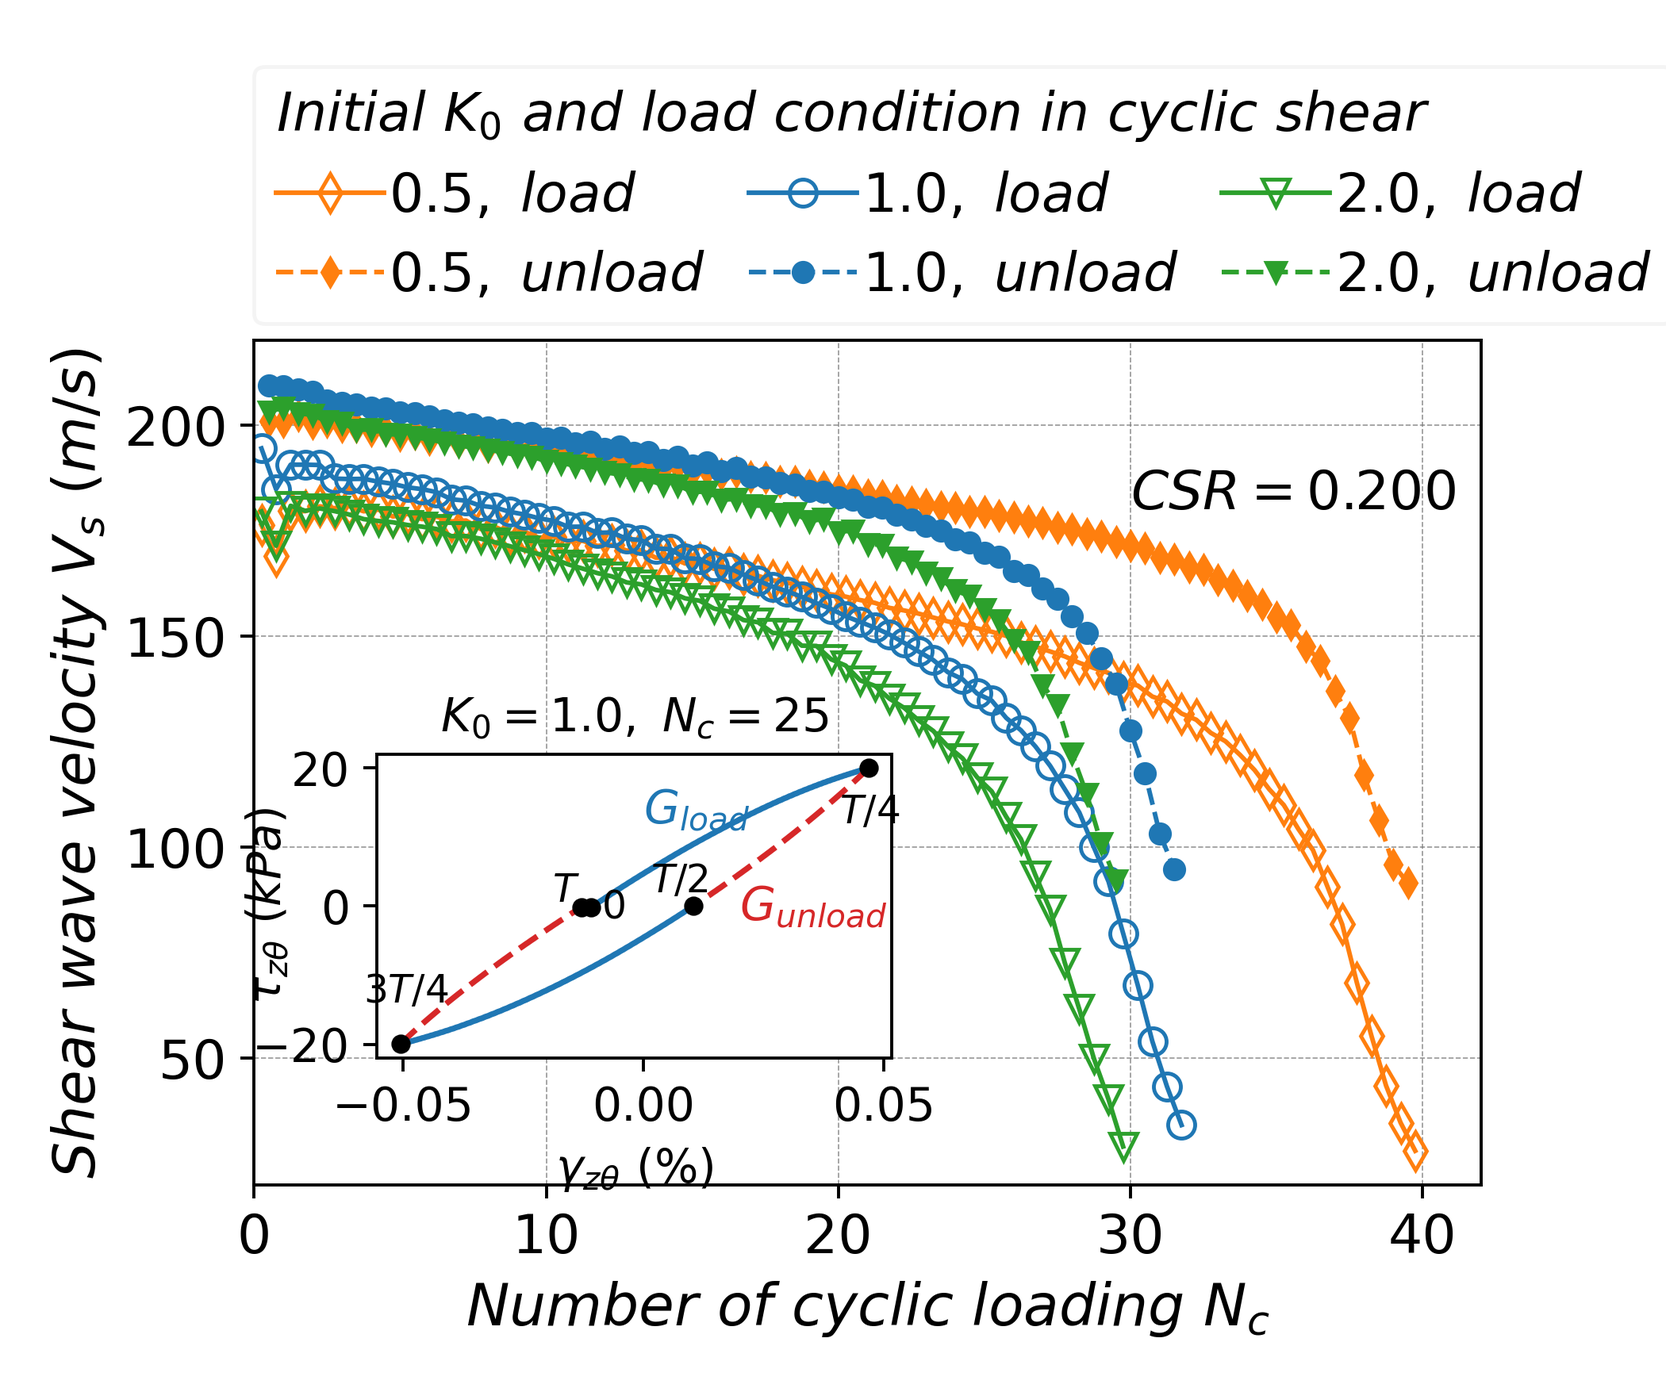
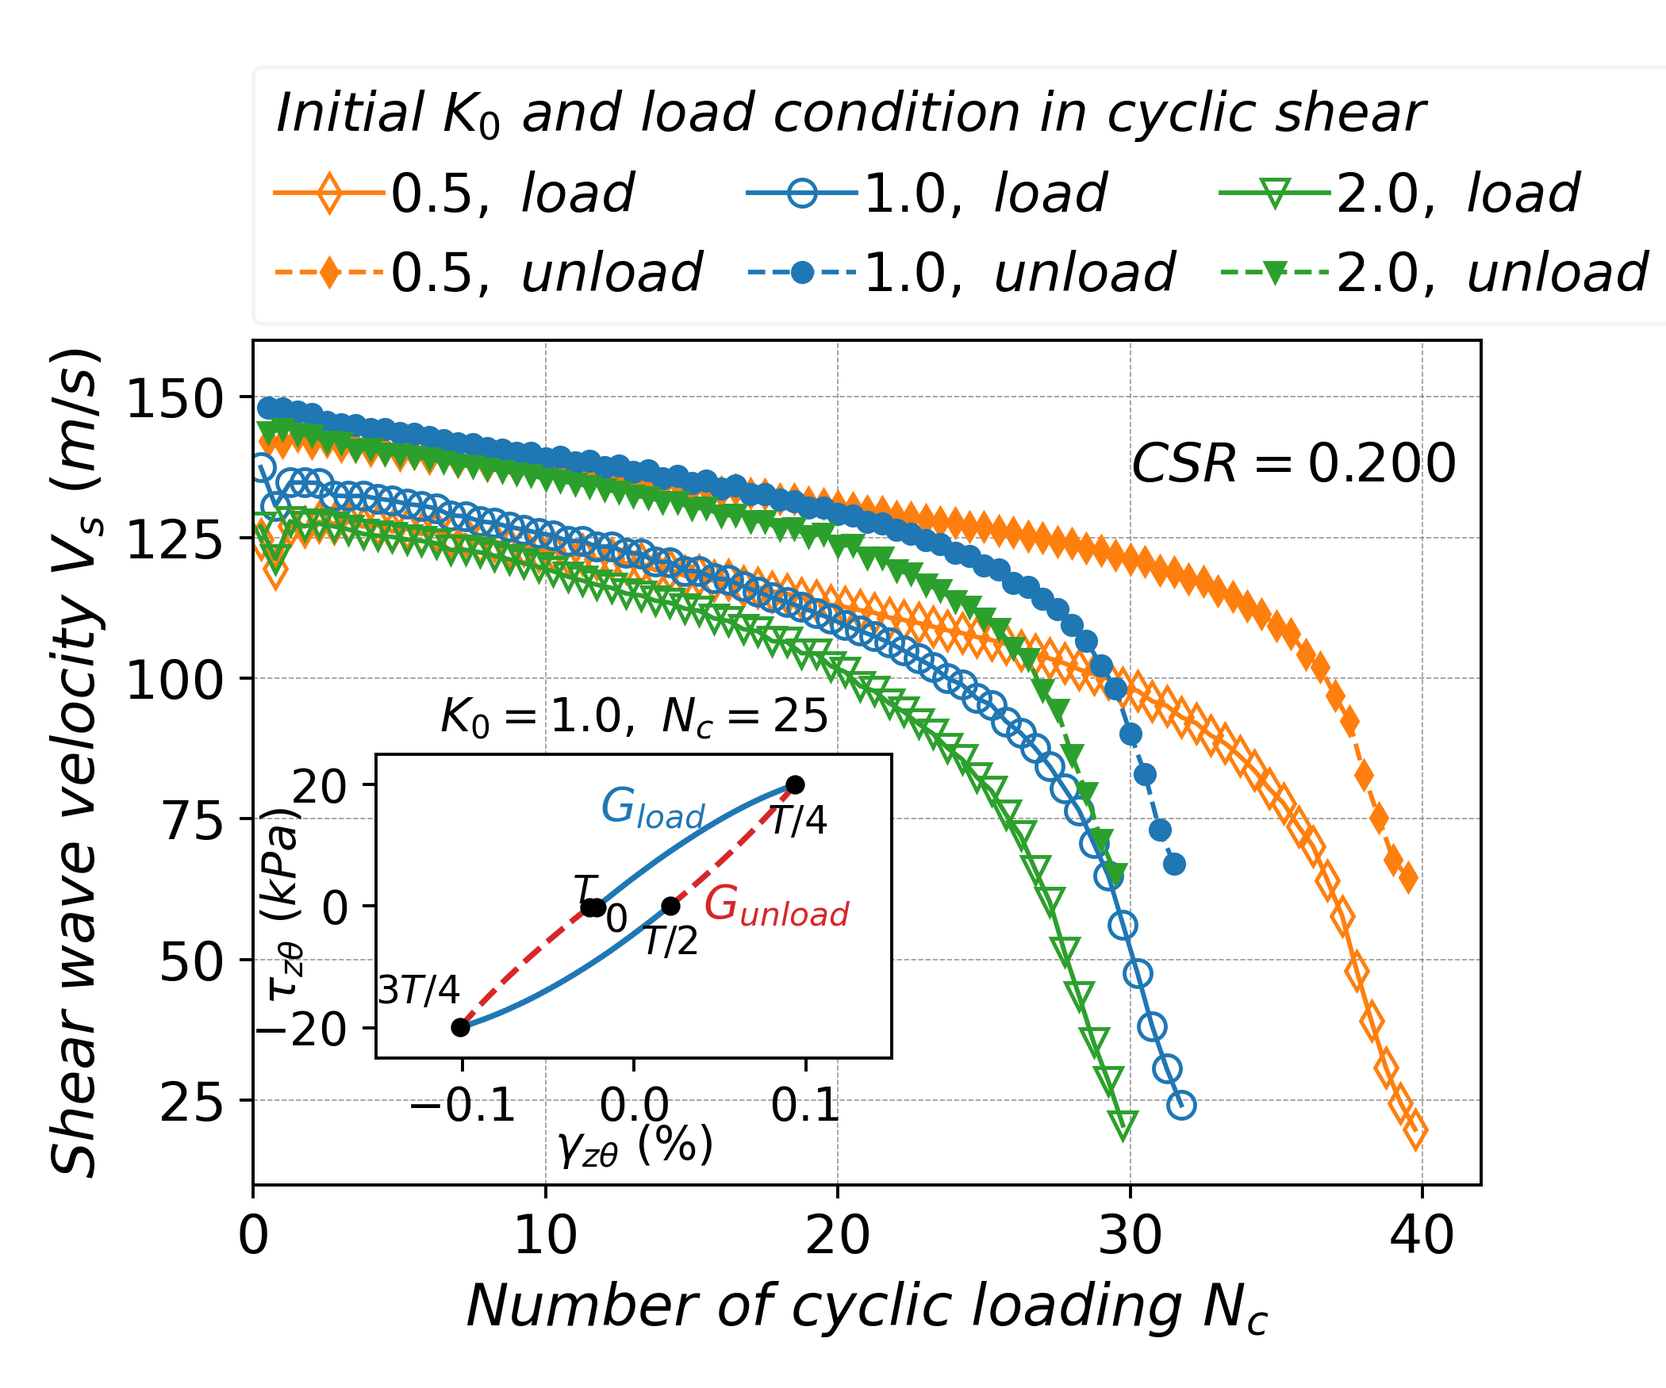
fix V_s calculation (G=τ/γ not τ/ε), update Fig.9 and Section 3.2–3.3 text
Shear modulus was computed as τ/ε (tensorial strain) instead of τ/γ (shear
strain), overstating G by 2× and V_s by √2. Corrected shear_modulus.py,
regenerated figure, and updated all numerical V_s values in paper and thesis.
Also refined Section 3.3 wording: fabric anisotropy indicator and contact
density evolution paragraphs.

diff --git a/papers/sdee-k0-anisotropy/sections/03_results_discussion.tex b/papers/sdee-k0-anisotropy/sections/03_results_discussion.tex
@@ -128,7 +128,7 @@ V_s = \sqrt{\frac{G}{\rho_{\mathrm{sat}}}}.
   \label{fig:vs_evolution}
 \end{figure}
 
-The loading $V_s$ is calculated from the secant modulus of the first and third quarter-periods of each cycle, and the unloading $V_s$ from the second and fourth quarter-periods. Figure~\ref{fig:vs_evolution} shows that unloading stiffness is consistently higher than loading stiffness for all three states, reflecting the hysteretic behavior of granular materials. The isotropic specimen (\Kzero{} = 1.0) exhibits the highest initial \Vs{} (approximately \SI{195}{m/s} loading, \SI{210}{m/s} unloading), while the \Kzero{} = 0.5 and 2.0 specimens have lower but comparable initial values (\SIrange{176}{180}{m/s}). Despite the similar initial stiffness of the \Kzero{} = 0.5 and 2.0 states, their subsequent degradation trajectories differ markedly: at 28 cycles, loading \Vs{} has degraded to \SI{144}{m/s} (\Kzero{} = 0.5), \SI{108}{m/s} (\Kzero{} = 1.0), and \SI{62}{m/s} (\Kzero{} = 2.0). Stiffness degrades slowest for \Kzero{} = 0.5 and fastest for \Kzero{} = 2.0.
+The loading $V_s$ is calculated from the secant modulus of the first and third quarter-periods of each cycle, and the unloading $V_s$ from the second and fourth quarter-periods. Figure~\ref{fig:vs_evolution} shows that unloading stiffness is consistently higher than loading stiffness for all three states, reflecting the hysteretic behavior of granular materials. The isotropic specimen (\Kzero{} = 1.0) exhibits the highest initial \Vs{} (approximately \SI{138}{m/s} loading, \SI{148}{m/s} unloading), while the \Kzero{} = 0.5 and 2.0 specimens have lower but comparable initial values (\SIrange{125}{127}{m/s} loading, \SIrange{142}{144}{m/s} unloading). Despite the similar initial stiffness of the \Kzero{} = 0.5 and 2.0 states, their subsequent degradation trajectories differ markedly: at 28 cycles, loading \Vs{} has degraded to \SI{103}{m/s} (\Kzero{} = 0.5), \SI{80}{m/s} (\Kzero{} = 1.0), and \SI{51}{m/s} (\Kzero{} = 2.0). Stiffness degrades slowest for \Kzero{} = 0.5 and fastest for \Kzero{} = 2.0.
 
 These different degradation rates provide a unified macroscopic explanation for the liquefaction resistance ordering. The \Kzero{} = 0.5 specimen maintains higher stiffness for longer, develops smaller strain amplitudes per cycle, and therefore accumulates shear work more gradually; the \Kzero{} = 2.0 specimen exhibits the opposite trend. This interpretation is consistent with the cycle-based energy accumulation shown in Fig.~\ref{fig:energy_work}(c) and explains why an energy-only comparison based on $\ru$--$W_s$ does not fully resolve the difference between the isotropic and extension states. However, stiffness degradation itself is a consequence of evolving particle contacts; why different \Kzero{} states degrade at different rates requires a microscopic explanation.
 
@@ -159,7 +159,7 @@ However, the inset in Fig.~\ref{fig:zm_evolution} also indicates that \Zm{} alon
   \label{fig:alpha_evolution}
 \end{figure}
 
-Figure~\ref{fig:alpha_evolution} shows that the \Kzero{} = 0.5 specimen starts with positive $\alpha_0 \approx +0.07$, the \Kzero{} = 1.0 specimen with near-zero $\alpha_0 \approx +0.02$, and the \Kzero{} = 2.0 specimen with negative $\alpha_0 \approx -0.05$, confirming that anisotropic consolidation induces distinct directional fabrics. During most of cyclic loading, $\alpha$ remains relatively stable, whereas large fluctuations emerge near liquefaction and the three curves converge toward a narrow band (approximately 0 to 0.05), indicating that the initially distinct directional fabrics are progressively erased as the contact network degrades. Notably, the ordering of initial values ($\alpha_0$: \Kzero{} = 0.5 $>$ 1.0 $>$ 2.0) largely mirrors the liquefaction resistance ranking, suggesting that directional fabric anisotropy at the onset of cyclic loading is an important factor governing the subsequent resistance. This relationship is examined quantitatively with an expanded dataset below.
+Figure~\ref{fig:alpha_evolution} shows that the \Kzero{} = 0.5 specimen starts with positive $\alpha_0 \approx +0.07$, the \Kzero{} = 1.0 specimen with near-zero $\alpha_0 \approx +0.02$, and the \Kzero{} = 2.0 specimen with negative $\alpha_0 \approx -0.05$, confirming that anisotropic consolidation induces distinct directional fabrics. During most of cyclic loading, $\alpha$ remains relatively stable, whereas large fluctuations emerge near liquefaction and the three curves converge toward a narrow band (approximately 0 to 0.05), indicating that the initially distinct directional fabrics are progressively erased as the contact network degrades. Notably, the ordering of initial values ($\alpha_0$: \Kzero{} = 0.5 $>$ 1.0 $>$ 2.0) largely mirrors the liquefaction resistance ranking, suggesting that initial fabric anisotropy is a key factor controlling liquefaction resistance. This relationship is examined quantitatively with an expanded dataset below.
 
 \paragraph{Contact density evolution and morphological interpretation.}
 The scalar indicator $\alpha$ captures directional bias but not the full morphology of the contact orientation distribution. To visualize the evolution of contact orientation and contact quantity simultaneously, contact density distributions are examined for the \Kzero{} = 0.5 and 2.0 specimens over the liquefaction process.
@@ -185,7 +185,7 @@ The scalar indicator $\alpha$ captures directional bias but not the full morphol
   \label{fig:contact_density_sequence}
 \end{figure*}
 
-Figure~\ref{fig:contact_density_sequence} shows that the \Kzero{} = 0.5 specimen initially exhibits an axially extended contact-density distribution (higher density near the poles), consistent with its positive $\alpha_0$, whereas the \Kzero{} = 2.0 specimen shows a dimpled, equator-concentrated distribution, consistent with its negative $\alpha_0$. During the intermediate stage, the overall contact density decreases while the initial morphology is largely preserved. As liquefaction is approached and in the post-liquefaction state, the contact density becomes more diffuse and the direction of maximum concentration rotates with the principal stress axes; eventually, the two initially distinct distributions enter a common oscillatory regime, with the direction of maximum contact density alternating its inclination upon each loading reversal. This shared post-liquefaction regime is consistent with the dynamic convergence of $\alpha$, \Vs{}, and \Zm{} near liquefaction.
+Figure~\ref{fig:contact_density_sequence} shows that the \Kzero{} = 0.5 specimen initially exhibits an axially extended contact-density distribution (higher density near the poles), consistent with its positive $\alpha_0$, whereas the \Kzero{} = 2.0 specimen shows a dimpled, equator-concentrated distribution, consistent with its negative $\alpha_0$. During the intermediate stage, contacts are progressively lost yet the distribution retains its initial morphology: the fabric shrinks but does not reshape. As liquefaction is approached, the initial morphology is destroyed and the direction of maximum concentration begins to tilt with the applied shear; in the post-liquefaction state, the two initially distinct distributions collapse into a common oscillatory regime, with the direction of maximum contact density alternating its inclination upon each loading reversal. This shared post-liquefaction regime is consistent with the dynamic convergence of $\alpha$, \Vs{}, and \Zm{} near liquefaction.
 
 \paragraph{Interparticle force chains and particle displacement.}
 
@@ -243,11 +243,11 @@ The preceding analyses demonstrate that \Zm{} and $\alpha$ capture different asp
   \label{fig:fabric_liq_pair}
 \end{figure*}
 
-Figure~\ref{fig:fabric_liq_pair}(a) shows that denser specimens have systematically larger $Z_{m0}$ and higher $N_L$, confirming that coordination number reflects the influence of packing compactness. However, within each density group, $Z_{m0}$ does not correlate monotonically with liquefaction resistance. By contrast, Fig.~\ref{fig:fabric_liq_pair}(b) shows a generally positive correlation between $\alpha_0$ and $N_L$ across both density levels: compression-state anisotropy (larger $\alpha_0$) is associated with higher liquefaction resistance, while extension-state anisotropy (smaller $\alpha_0$) is associated with lower liquefaction resistance. A minor reversal is observed in the lower-density group at extreme extension states (\Kzero{} = 1.5 and 2.0), where the $N_L$ difference is only one cycle; this is likely attributable to the discrete nature of cycle counting, since the strain-based liquefaction criterion can only be evaluated at integer cycle boundaries, introducing an inherent $\pm 1$ cycle uncertainty that is significant when $N_L$ itself is small.
+Figure~\ref{fig:fabric_liq_pair}(a) shows that denser specimens have systematically larger $Z_{m0}$ and higher $N_L$. However, because $Z_{m0}$ and relative density are strongly coupled under conventional specimen preparation, this cross-density correlation does not establish an independent role for $Z_{m0}$; it may simply reflect the well-known macroscopic density effect. Within each density group, $Z_{m0}$ does not correlate monotonically with $N_L$, further suggesting that $Z_{m0}$ primarily serves as a proxy for packing compactness in the present dataset. By contrast, $\alpha_0$ varies independently of density through changes in \Kzero{}, making it a genuinely independent microscopic variable in this study. Fig.~\ref{fig:fabric_liq_pair}(b) shows a generally positive correlation between $\alpha_0$ and $N_L$ across both density levels: compression-state anisotropy (larger $\alpha_0$) is associated with higher liquefaction resistance, while extension-state anisotropy (smaller $\alpha_0$) is associated with lower resistance. A minor reversal is observed in the lower-density group at extreme extension states (\Kzero{} = 1.5 and 2.0), where the $N_L$ difference is only one cycle; this is likely attributable to the limited resolution of cycle-based counting, which introduces an inherent uncertainty of approximately one cycle---significant when $N_L$ itself is small.
 
-The three-dimensional view in Fig.~\ref{fig:fabric_liq_pair}(c) clarifies the complementary roles of the two microscopic parameters. The two relative-density groups are primarily separated along the $Z_{m0}$ axis, whereas the variation in $N_L$ within each group is more strongly associated with $\alpha_0$. This indicates that $Z_{m0}$ mainly captures the packing-state effect, while $\alpha_0$ captures the directional fabric effect induced by anisotropic consolidation.
+The three-dimensional view in Fig.~\ref{fig:fabric_liq_pair}(c) reveals the asymmetric roles of the two microscopic parameters. The two relative-density groups are primarily separated along the $Z_{m0}$ axis, whereas the variation in $N_L$ within each group is governed by $\alpha_0$. In other words, $Z_{m0}$ largely mirrors the macroscopic density effect, whereas $\alpha_0$ provides directional fabric information that is inaccessible from macroscopic state variables alone.
 
-The physical interpretation is that, in compression states (\Kzero{} < 1.0), a larger fraction of contact normals is oriented perpendicular to the horizontal cyclic shear direction, which tends to stabilize contacts against shear-induced sliding and slows fabric degradation. In extension states (\Kzero{} > 1.0), the contact normals are more aligned with the shear direction, promoting sliding and force-chain collapse, thereby accelerating pore-pressure accumulation and reducing liquefaction resistance. At the same time, the cross-density comparison in Fig.~\ref{fig:fabric_liq_pair}(c) indicates that \Zm{} and $\alpha$ alone do not fully determine liquefaction resistance; macroscopic density-related mechanisms (e.g., particle interlocking and force-chain stability) remain important.
+The physical interpretation is that, in compression states (\Kzero{} < 1.0), a larger fraction of contact normals is oriented perpendicular to the horizontal cyclic shear direction, which tends to stabilize contacts against shear-induced sliding and slows fabric degradation. In extension states (\Kzero{} > 1.0), the contact normals are more aligned with the shear direction, promoting sliding and force-chain collapse, thereby accelerating pore-pressure accumulation and reducing liquefaction resistance. Isolating the independent contribution of \Zm{} would require specimens with identical density but different coordination numbers---achievable, for example, through varied preparation methods---which remains a direction for future investigation.
 
 \subsection{Implications and limitations}
 \label{subsec:limitations}

diff --git a/torsionSim/cyclic_shear/shear_modulus.py b/torsionSim/cyclic_shear/shear_modulus.py
@@ -73,7 +73,8 @@ def plot_shear_modulus(k0, color, marker):
 		d_stress = stresses_shear[ind_end] - stresses_shear[ind_start]
 
 		if abs(d_strain) > 1e-11:
-			G = abs(d_stress / d_strain) * 1000.  # Pa
+			# d_strain is tensorial strain epsilon; G = tau / gamma = tau / (2*epsilon)
+			G = abs(d_stress / d_strain) * 1000. / 2.0  # Pa
 			Vs = np.sqrt(G / density_sat)  # m/s
 
 			if i % 2 == 0:  # loading
@@ -108,7 +109,8 @@ for k0, marker, color in zip(k0s, markers, colors):
 
 # --- Inset: hysteresis loop schematic using K0=1.0, cycle 25 ---
 df_inset = pd.read_csv(BASE_DIR / "Dr90/k1.00/csr_0.200/torsion_shear.csv", header=0)
-strains_in = df_inset["strain_shear"].to_numpy() * 100  # percent
+# strain_shear is tensorial epsilon; convert to gamma = 2*epsilon for plotting
+strains_in = df_inset["strain_shear"].to_numpy() * 100 * 2.0  # gamma in percent
 stresses_in = df_inset["stress_shear"].to_numpy() / 1000.  # kPa
 time_in = df_inset["time_duration"].to_numpy()
 
@@ -132,7 +134,7 @@ for q in range(4):
 
 # mark quarter points
 labels = [r'$0$', r'$T/4$', r'$T/2$', r'$3T/4$', r'$T$']
-offsets = [(0.002, -1.6), (-0.006, -8), (0.003, 2.0), (0.01, 6.0), (-0.006, 0.8)]
+offsets = [(0.004, -4), (-0.016, -8), (0.016, -8.0), (0.0, 4.0), (-0.01, 0.6)]
 ha_list = ['left', 'left', 'right', 'right', 'left']
 for q in range(5):
 	ax2.plot(strains_in[iq[q]], stresses_in[iq[q]], 'ko', markersize=4, zorder=5)
@@ -141,13 +143,15 @@ for q in range(5):
 		fontsize=FS_INSET-2, ha=ha_list[q], fontweight='bold')
 
 # G labels
-ax2.annotate(r'$G_{load}$', xy=(-0.0, 12), fontsize=FS_INSET, color='tab:blue',
+ax2.annotate(r'$G_{load}$', xy=(-0.02, 14), fontsize=FS_INSET, color='tab:blue',
 	fontstyle='italic')
-ax2.annotate(r'$G_{unload}$', xy=(0.02, -2), fontsize=FS_INSET, color='tab:red',
+ax2.annotate(r'$G_{unload}$', xy=(0.04, -2), fontsize=FS_INSET, color='tab:red',
 	fontstyle='italic')
 
-ax2.set_xlabel(r'$\gamma_{z\theta}\ (\%)$', fontsize=FS_INSET)
-ax2.set_ylabel(r'$\tau_{z\theta}\ (kPa)$', fontsize=FS_INSET, labelpad=-10)
+ax2.set_xlabel(r'$\gamma_{z\theta}\ (\%)$', fontsize=FS_INSET, labelpad=-2)
+ax2.set_ylabel(r'$\tau_{z\theta}\ (kPa)$', fontsize=FS_INSET, labelpad=-14)
+ax2.set_xlim(-0.15, 0.15)
+ax2.set_ylim(-25, 25)
 ax2.tick_params(axis='both', which='major', labelsize=FS_INSET)
 ax2.set_title(r'$K_0=1.0,\ N_c=25$', fontsize=FS_INSET)
 
@@ -164,8 +168,8 @@ ax1.grid(axis='both', which='major', color='grey', linestyle='--',
 	lw=0.35, alpha=0.8)
 ax1.tick_params(axis='both', which='major', labelsize=FS_TICK)
 ax1.set_xlim(0, 42)
-ax1.set_ylim(20, 220)
-plt.annotate(r"$CSR=0.200$", xy=(30, 180), fontsize=FS_ANN)
+ax1.set_ylim(10, 160)
+plt.annotate(r"$CSR=0.200$", xy=(30, 135), fontsize=FS_ANN)
 
 plt.tight_layout()
 plt.savefig(BASE_DIR / "shear_modulus.png", dpi=350)

diff --git a/thesis/04_1_anisotropic_consolidation_sim.md b/thesis/04_1_anisotropic_consolidation_sim.md
@@ -320,7 +320,7 @@ Fig. 4.9. Evolution of shear wave velocity during cyclic shear for different $K_
 
 Fig. 4.9 presents the evolution of shear wave velocity $V_s$ during undrained cyclic shear, with loading and unloading phases plotted separately. The loading $V_s$ is calculated from the first and third quarter-periods of each cycle, while the unloading $V_s$ is calculated from the second and fourth quarter-periods. The inset shows the initial shear wave velocity $V_{s0}$ for both loading and unloading conditions. For all three $K_0$ states, unloading stiffness is consistently higher than loading stiffness, reflecting the typical hysteretic behavior of granular materials under cyclic loading.
 
-The $K_0$=1.0 specimen exhibits the highest initial $V_s$, with values of approximately 195 m/s (loading) and 210 m/s (unloading). The $K_0$=0.5 and $K_0$=2.0 specimens show lower and comparable initial values, with loading $V_s$ around 176-180 m/s. However, the subsequent stiffness degradation differs markedly among the three states. During the early stage ($N_c < 15$), $K_0$=1.0 maintains the highest stiffness. As cycling progresses, the degradation rates diverge: the $K_0$=1.0 and $K_0$=2.0 specimens degrade relatively rapidly, while the $K_0$=0.5 specimen degrades much more slowly. By approximately 20 cycles, the $K_0$=0.5 specimen surpasses $K_0$=1.0 in loading $V_s$, and by 28 cycles, the contrast becomes striking—the $K_0$=0.5 specimen retains a loading $V_s$ of approximately 144 m/s, compared to 108 m/s for $K_0$=1.0 and 62 m/s for $K_0$=2.0. These different degradation rates directly explain the energy accumulation ordering observed in Fig. 4.8(c): the $K_0$=0.5 specimen, whose stiffness degrades most slowly, develops the smallest strain amplitude per cycle and thus accumulates energy most gradually; the $K_0$=2.0 specimen, with the fastest stiffness degradation, develops the largest strain amplitude per cycle and accumulates energy most rapidly; and the $K_0$=1.0 specimen exhibits intermediate behavior in both stiffness degradation and energy accumulation.
+The $K_0$=1.0 specimen exhibits the highest initial $V_s$, with values of approximately 138 m/s (loading) and 148 m/s (unloading). The $K_0$=0.5 and $K_0$=2.0 specimens show lower and comparable initial values, with loading $V_s$ around 125–127 m/s and unloading $V_s$ around 142–144 m/s. However, the subsequent stiffness degradation differs markedly among the three states. During the early stage ($N_c < 15$), $K_0$=1.0 maintains the highest stiffness. As cycling progresses, the degradation rates diverge: the $K_0$=1.0 and $K_0$=2.0 specimens degrade relatively rapidly, while the $K_0$=0.5 specimen degrades much more slowly. By approximately 20 cycles, the $K_0$=0.5 specimen surpasses $K_0$=1.0 in loading $V_s$, and by 28 cycles, the contrast becomes striking—the $K_0$=0.5 specimen retains a loading $V_s$ of approximately 103 m/s, compared to 80 m/s for $K_0$=1.0 and 51 m/s for $K_0$=2.0. These different degradation rates directly explain the energy accumulation ordering observed in Fig. 4.8(c): the $K_0$=0.5 specimen, whose stiffness degrades most slowly, develops the smallest strain amplitude per cycle and thus accumulates energy most gradually; the $K_0$=2.0 specimen, with the fastest stiffness degradation, develops the largest strain amplitude per cycle and accumulates energy most rapidly; and the $K_0$=1.0 specimen exhibits intermediate behavior in both stiffness degradation and energy accumulation.
 
 Compared with the energy-based approach, which cannot distinguish between $K_0$=1.0 and $K_0$=2.0 (Fig. 4.8(d)), the stiffness degradation rate provides a unified macroscopic explanation for the liquefaction resistance ordering across all three $K_0$ states. Notably, the initial stiffness alone cannot predict these outcomes—the $K_0$=0.5 and $K_0$=2.0 specimens share comparable initial $V_s$ yet exhibit markedly different degradation trajectories. It is the rate of stiffness degradation during cyclic loading, rather than the initial stiffness, that ultimately governs the energy accumulation behavior and liquefaction resistance.
 
